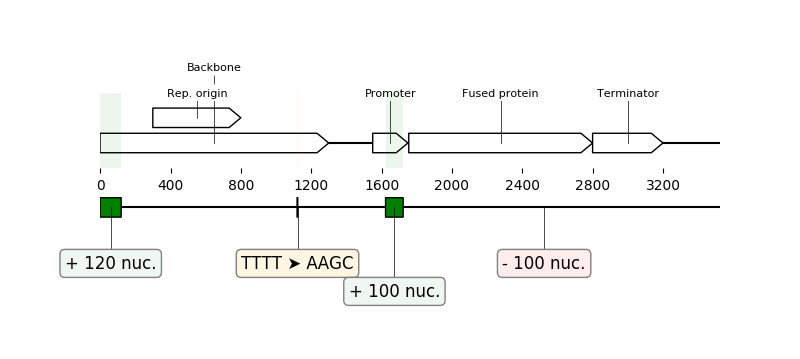
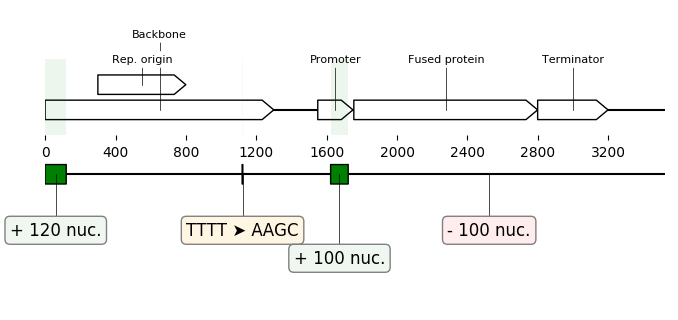
Added readme example and test for complex sequences

diff --git a/tests/test_complex_sequences.py b/tests/test_complex_sequences.py
@@ -1,0 +1,29 @@
+from geneblocks import DiffBlocks, CommonBlocks, random_dna_sequence
+import geneblocks.sequence_modification_utils as smu
+import matplotlib.pyplot as plt
+
+def test_complex_sequences():
+    seq1 = random_dna_sequence(50000)
+    seq1 = smu.copy(seq1, 25000, 30000, 50000)
+
+    seq2 = seq1
+    seq2 = smu.insert(seq2, 39000, random_dna_sequence(100))
+    seq2 = smu.insert(seq2, 38000, random_dna_sequence(100))
+    seq2 = smu.reverse(seq2, 30000, 35000)
+    seq2 = smu.swap(seq2, (30000, 35000), (45000, 480000))
+    seq2 = smu.delete(seq2, 20000, 2000)
+    seq2 = smu.insert(seq2, 10000, random_dna_sequence(2000))
+    seq2 = smu.insert(seq2, 0, 1000*"A")
+    diff_blocks = DiffBlocks.from_sequences(seq1, seq2)
+
+    b = diff_blocks.blocks
+    assert len(b) == 15
+    assert b[0].operation == 'insert'
+    start, end, _ = b[0].s2_location.to_tuple()
+    assert end - start == 1000
+    assert b[1].operation == 'equal'
+    assert b[2].operation == 'insert'
+    start, end, _ = b[2].s2_location.to_tuple()
+    assert end - start == 2000
+    assert sorted([b[6].operation, b[7].operation]) == ['replace', 'transpose']
+    assert sorted([b[-1].operation, b[-2].operation]) == ['replace', 'reverse']

diff --git a/examples/complex_sequences.py b/examples/complex_sequences.py
@@ -1,0 +1,27 @@
+from geneblocks import DiffBlocks, CommonBlocks, random_dna_sequence
+import geneblocks.sequence_modification_utils as smu
+import matplotlib.pyplot as plt
+
+# GENERATE 2 "SISTER" SEQUENCES FOR THE EXAMPLE
+seq1 = random_dna_sequence(50000)
+seq1 = smu.copy(seq1, 25000, 30000, 50000)
+
+seq2 = seq1
+seq2 = smu.insert(seq2, 39000, random_dna_sequence(100))
+seq2 = smu.insert(seq2, 38000, random_dna_sequence(100))
+seq2 = smu.reverse(seq2, 30000, 35000)
+seq2 = smu.swap(seq2, (30000, 35000), (45000, 480000))
+seq2 = smu.delete(seq2, 20000, 2000)
+seq2 = smu.insert(seq2, 10000, random_dna_sequence(2000))
+seq2 = smu.insert(seq2, 0, 1000*"A")
+
+# FIND COMMON BLOCKS AND DIFFS
+common_blocks = CommonBlocks({'seq1': seq1, 'seq2': seq2})
+diff_blocks = DiffBlocks.from_sequences(seq1, seq2)
+
+# PLOT EVERYTHING
+fig, axes = plt.subplots(3, 1, figsize=(15, 8))
+common_blocks.plot_common_blocks(axes=axes[:-1])
+diff_blocks.plot(ax=axes[-1])
+axes[-1].set_xlabel("Changes in seq2 vs. seq1")
+fig.savefig("complex_sequences.png", bbox_inches='tight')

diff --git a/setup.py b/setup.py
@@ -13,7 +13,7 @@ setup(
     long_description=open('pypi-readme.rst').read(),
     license='MIT',
     url='https://github.com/Edinburgh-Genome-Foundry/geneblocks',
-    keywords="DNA blocks diff genbank synthetic-biology bioinformatics",
+    keywords="DNA sequence blocks diff synthetic-biology bioinformatics",
     packages=find_packages(exclude='docs'),
     install_requires=['numpy', 'Biopython', 'dna_features_viewer',
                       'networkx'])

diff --git a/README.rst b/README.rst
@@ -76,7 +76,6 @@ Finding common blocks in a set of sequences:
 
 Result:
 
-
 .. raw:: html
    
    <img src='https://raw.githubusercontent.com/Edinburgh-Genome-Foundry/GeneBlocks/master/examples/common_blocks.png'
@@ -130,6 +129,48 @@ Result:
      <img src='https://raw.githubusercontent.com/Edinburgh-Genome-Foundry/GeneBlocks/master/examples/diff_blocks.png'
       width='700px'/>
 
+Example on more complex sequences
+~~~~~~~~~~~~~~~~~~~~~~~~~~~~~~~~~
+
+In the example below we build two ~50kb "sister" sequences with many insertions,
+deletions, transpositions between them, and even a self-homology. Then we ask
+Geneblocks to compare the two sequences, in term of common blocks, and in terms
+of modifications brought to the second sequence:
+
+.. code:: python
+
+    from geneblocks import DiffBlocks, CommonBlocks, random_dna_sequence
+    import geneblocks.sequence_modification_utils as smu
+    import matplotlib.pyplot as plt
+
+    # GENERATE 2 "SISTER" SEQUENCES FOR THE EXAMPLE
+    seq1 = random_dna_sequence(50000)
+    seq1 = smu.copy(seq1, 25000, 30000, 50000)
+
+    seq2 = seq1
+    seq2 = smu.insert(seq2, 39000, random_dna_sequence(100))
+    seq2 = smu.insert(seq2, 38000, random_dna_sequence(100))
+    seq2 = smu.reverse(seq2, 30000, 35000)
+    seq2 = smu.swap(seq2, (30000, 35000), (45000, 480000))
+    seq2 = smu.delete(seq2, 20000, 2000)
+    seq2 = smu.insert(seq2, 10000, random_dna_sequence(2000))
+    seq2 = smu.insert(seq2, 0, 1000*"A")
+
+    # FIND COMMON BLOCKS AND DIFFS
+    common_blocks = CommonBlocks({'seq1': seq1, 'seq2': seq2})
+    diff_blocks = DiffBlocks.from_sequences(seq1, seq2)
+
+    # PLOT EVERYTHING
+    fig, axes = plt.subplots(3, 1, figsize=(15, 8))
+    common_blocks.plot_common_blocks(axes=axes[:-1])
+    diff_blocks.plot(ax=axes[-1])
+    axes[-1].set_xlabel("Changes in seq2 vs. seq1")
+    fig.savefig("complex_sequences.png", bbox_inches='tight')
+
+.. raw:: html
+   
+     <img src='https://raw.githubusercontent.com/Edinburgh-Genome-Foundry/GeneBlocks/master/examples/complex_sequences.png'
+      width='700px'/>
 
 Licence
 --------
